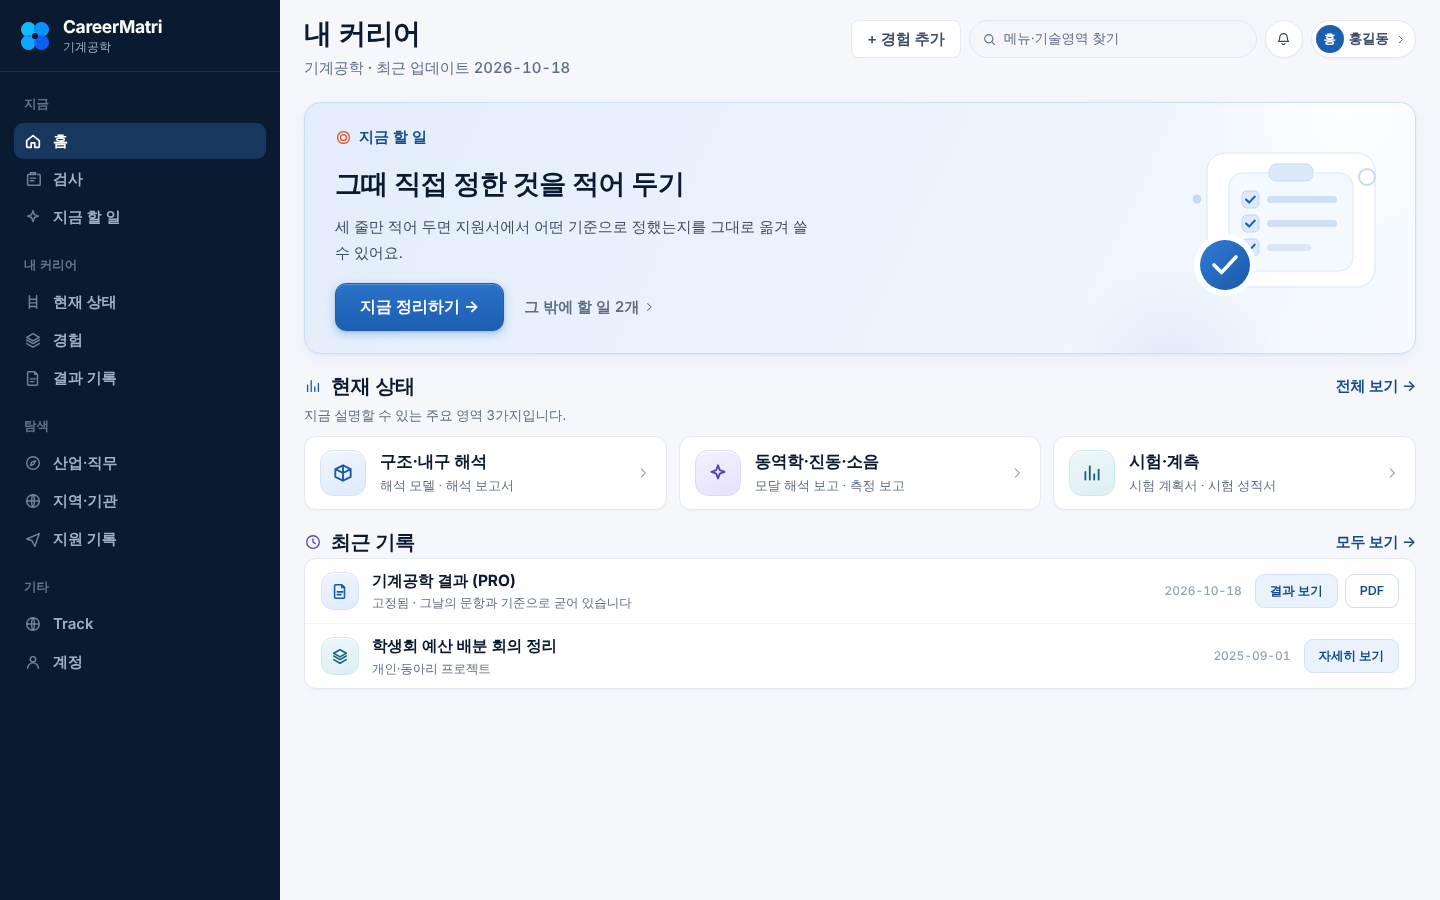
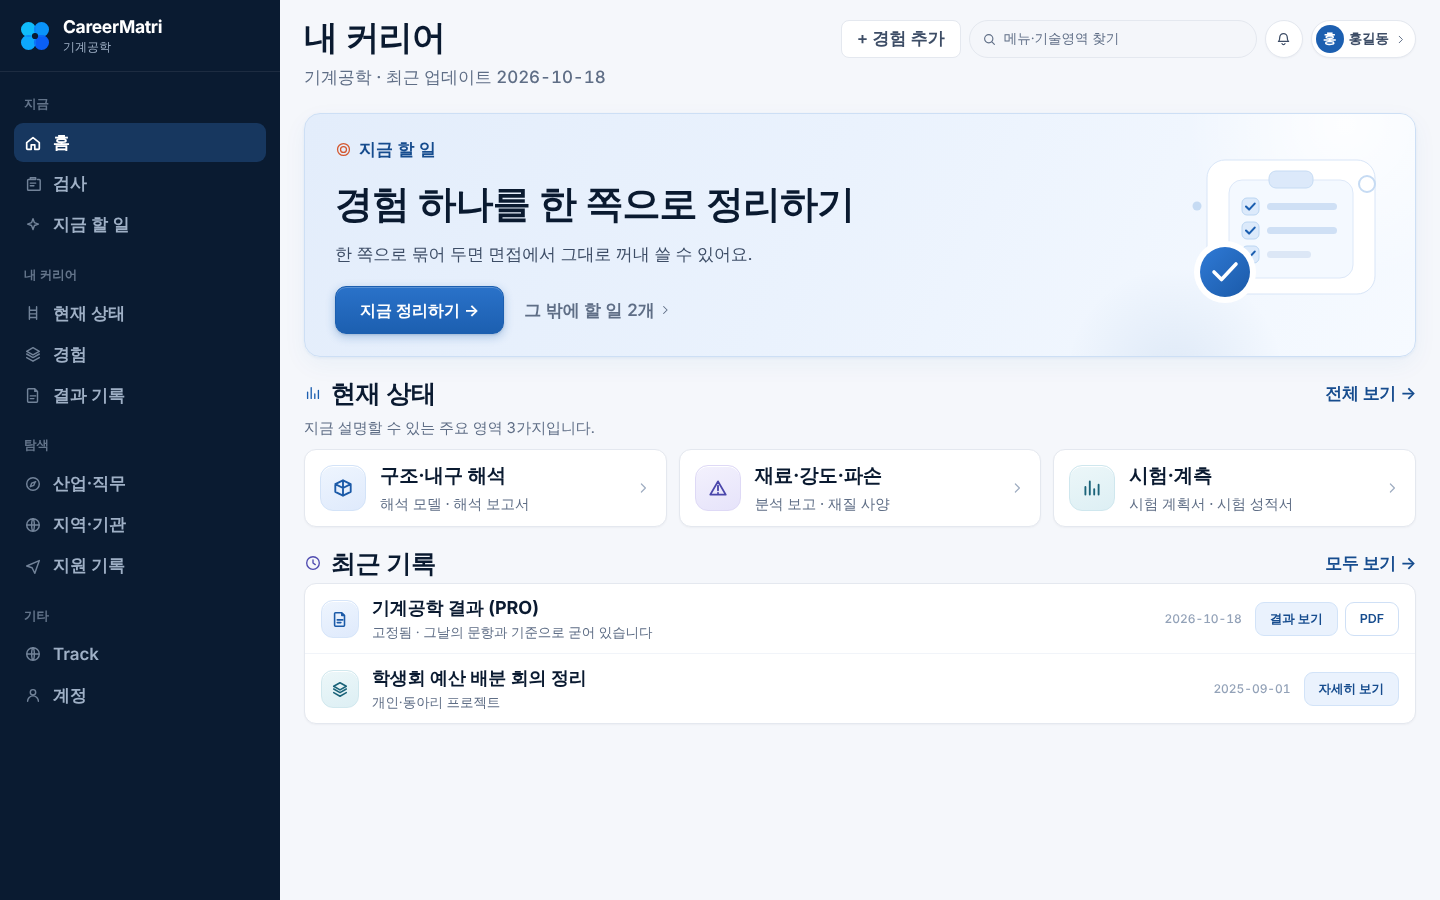
R22 ③: 본문 폭과 활자를 창 폭에 맞춘다
목표 화면과 같은 밀도로 맞추라는 지적을 받고 먼저 재었다.

--cm-max 는 1440 에서 걸리지 않는다: 쓸 수 있는 폭이 1440 - 280(띠) -
48(안쪽 여백) = 1112 라 1120 짜리 상한에 닿지 않는다. 그 값만 올려서는
한 화소도 바뀌지 않고, 걸리는 자리는 1536 위다. 1920 에서 1120 으로 묶어
두면 양쪽에 236px 짜리 빈 띠가 남으므로 1360 으로 넓혔다.

1440 에서 밀도를 바꾸는 자리는 활자였다. 1200 안팎에 맞춰 둔 값을 1440 과
1920 에서 그대로 써서 창이 넓어질수록 글이 멀어 보였다. 일곱 자리를 clamp
로 바꿔 넓은 화면에서만 올라가게 했다(쪽 제목 28 → 34 · Hero 머리 27 → 38
· 절 머리 20 → 25 · 칸 이름 16.5 → 19.4 · 기록 이름 15.5 → 18 ·
--ui-t-sub 15 → 17 · --ui-t-cap 12.5 → 13.5).

손전화는 한 글자도 바뀌지 않는다: clamp 의 아래 값이 전의 값 그대로다.
위를 막아 두는 까닭은 1920 에서 본문이 22px 가 되면 한 줄에 들어가는 글자가
줄어 훑는 자리가 읽는 자리가 되기 때문이다. 새 단을 만들지 않았고 검사와
결과지는 surface.css 의 값을 그대로 읽는다.

판본은 작업공간 화면만 올렸다: CAREERMATRI_WORKSPACE_UI_V38. 글자가 한
줄도 바뀌지 않아 문장 판본은 그대로다.

회귀: v3:visual(폭 11 · 확대 4 · 자리 20) · v3:product-loop(65) ·
v3:gate(25) · v3:copy · copy:audit(47 기준선 그대로) · 동결 다섯 OK.

Claude-Session: https://claude.ai/code/session_01VsLgPeSsVvvXWmRdQnrgMy

diff --git a/pca-platform/src/app/me/platform.css b/pca-platform/src/app/me/platform.css
@@ -279,7 +279,7 @@ a.cm-nav:focus-visible { outline: 2px solid #fff; outline-offset: 2px; }
   margin: 0 0 6px;
 }
 .cm-h1 {
-  font-size: clamp(24px, 2.1vw, 28px); line-height: 1.26; font-weight: var(--ui-w-bd);
+  font-size: clamp(24px, 2.36vw, 34px); line-height: 1.26; font-weight: var(--ui-w-bd);
   color: var(--sf-ink); margin: 0; text-wrap: balance; letter-spacing: -.022em;
 }
 /* 제목 아래 한 줄(규격 §4). `기계공학 · 최근 업데이트 YYYY.MM.DD` */
@@ -301,7 +301,8 @@ a.cm-nav:focus-visible { outline: 2px solid #fff; outline-offset: 2px; }
  */
 .cm-sh {
   display: flex; align-items: center; gap: 9px;
-  margin: 16px 0 0; font-size: 20px; font-weight: var(--ui-w-bd); color: var(--sf-ink);
+  margin: 16px 0 0; font-size: clamp(20px, 1.74vw, 25px);
+  font-weight: var(--ui-w-bd); color: var(--sf-ink);
   letter-spacing: -.015em;
 }
 /* 절 머리의 표시. **셋이 같은 파랑이면 절이 한 묶음으로 읽힌다**
@@ -315,7 +316,9 @@ a.cm-nav:focus-visible { outline: 2px solid #fff; outline-offset: 2px; }
   color: var(--sf-accent-ink); text-decoration: none; white-space: nowrap;
 }
 .cm-sh > a:hover { text-decoration: underline; }
-.cm-shsub { margin: 3px 0 9px; font-size: 13.5px; color: var(--sf-ink-3); }
+.cm-shsub {
+  margin: 3px 0 9px; font-size: clamp(13.5px, 1.04vw, 15px); color: var(--sf-ink-3);
+}
 
 /* ── 지금 할 일 Hero ──────────────────────────────────────────────
  *
@@ -360,7 +363,7 @@ a.cm-nav:focus-visible { outline: 2px solid #fff; outline-offset: 2px; }
    가리키는 표시라, 파랑 일색의 면에서 눈이 거기부터 닿는다 */
 .cm-hero-tag > svg { color: #d4572e; }
 .cm-hero-h {
-  margin: 12px 0 0; font-size: clamp(23px, 2vw, 27px); line-height: 1.4;
+  margin: 12px 0 0; font-size: clamp(23px, 2.64vw, 38px); line-height: 1.34;
   font-weight: var(--ui-w-bd); color: var(--sf-ink); letter-spacing: -.024em;
   max-width: 22ch; text-wrap: balance;
 }
@@ -459,11 +462,13 @@ a.cm-tile:nth-child(3n+3) .cm-tile-ico {
 }
 .cm-tile-txt { display: block; min-width: 0; flex: 1 1 auto; }
 .cm-tile-txt b {
-  display: block; font-size: 16.5px; font-weight: var(--ui-w-bd); color: var(--sf-ink);
+  display: block; font-size: clamp(16.5px, 1.35vw, 19.5px);
+  font-weight: var(--ui-w-bd); color: var(--sf-ink);
   letter-spacing: -.015em; line-height: 1.3;
 }
 .cm-tile-txt small {
-  display: block; margin-top: 5px; font-size: 13px; color: var(--sf-not);
+  display: block; margin-top: 5px; font-size: clamp(13px, 1.01vw, 14.5px);
+  color: var(--sf-not);
   line-height: 1.35;
   overflow: hidden; text-overflow: ellipsis; white-space: nowrap;
 }
@@ -520,7 +525,8 @@ a.cm-feed-row:hover, .cm-feed > li:hover { background: #fafcfe; }
 }
 .cm-feed-txt { flex: 1 1 auto; min-width: 0; margin: 0; font-size: var(--ui-t-sub); color: var(--sf-ink-2); }
 .cm-feed-txt b {
-  display: block; color: var(--sf-ink); font-weight: var(--ui-w-bd); font-size: 15.5px;
+  display: block; color: var(--sf-ink); font-weight: var(--ui-w-bd);
+  font-size: clamp(15.5px, 1.25vw, 18px);
   line-height: 1.4; letter-spacing: -.01em;
 }
 .cm-feed-txt small { display: block; margin-top: 3px; font-size: var(--ui-t-cap); color: var(--sf-ink-3); line-height: 1.4; }

diff --git a/pca-platform/src/lib/me-v3/workspace-version.ts b/pca-platform/src/lib/me-v3/workspace-version.ts
@@ -132,7 +132,32 @@
  *
  * **글자는 한 줄도 바뀌지 않았으므로 문장 판본은 올리지 않는다.**
  */
-export const WORKSPACE_UI_VERSION = "CAREERMATRI_WORKSPACE_UI_V37";
+/*
+ * `V38` 로 올린 까닭. **창이 넓어지면 글도 같이 커진다**(R22 ③).
+ *
+ * 목표 화면과 같은 밀도로 맞춰 달라는 지적을 받고 **먼저 재었다.**
+ * 본문 폭부터 보니 `--cm-max` 가 **1440 에서는 걸리지 않는다**: 쓸 수
+ * 있는 폭이 `1440 - 280(띠) - 48(안쪽 여백) = 1112` 이라 1120 짜리
+ * 상한에 닿지 않는다. 그러니 그 값만 올려서는 1440 에서 한 화소도
+ * 바뀌지 않는다. 걸리는 자리는 1536 위이고, 거기서 1120 으로 묶어 두면
+ * 1920 에서 양쪽에 236px 짜리 빈 띠가 남는다. 그래서 1360 으로 넓혔다.
+ *
+ * **1440 에서 밀도를 바꾸는 자리는 활자다.** 1200 안팎에 맞춰 둔 값을
+ * 1440 과 1920 에서 그대로 쓰고 있어서 창이 넓어질수록 글이 멀어
+ * 보였다. 쪽 제목 · 절 머리 · Hero 머리 · 칸 이름 · 기록 이름과
+ * `--ui-t-sub` · `--ui-t-cap` 을 `clamp` 로 바꿔 **넓은 화면에서만**
+ * 올라가게 했다. 손전화는 아래 값 그대로라 한 글자도 바뀌지 않는다.
+ *
+ * **위를 막아 둔다.** 막지 않으면 1920 에서 본문이 22px 가 되어 한 줄에
+ * 들어가는 글자가 줄고, 그러면 훑는 자리가 읽는 자리가 된다.
+ *
+ * **새 단을 만들지 않았다.** 굵기 넷(`--ui-w-*`)과 활자 단 이름은
+ * 그대로고, 바뀐 것은 작업공간 안에서 그 단이 가리키는 값이다. 검사와
+ * 결과지는 `surface.css` 의 값을 그대로 읽으므로 한 글자도 바뀌지 않는다.
+ *
+ * **글자는 한 줄도 바뀌지 않았으므로 문장 판본은 올리지 않는다.**
+ */
+export const WORKSPACE_UI_VERSION = "CAREERMATRI_WORKSPACE_UI_V38";
 
 /**
  * 작업공간에 나가는 한국어. 문장만 바뀌면 이것만 올린다.

diff --git a/pca-platform/src/app/workspace.tokens.css b/pca-platform/src/app/workspace.tokens.css
@@ -28,12 +28,26 @@
    * 작업공간 안에서만 값을 올린다. 검사와 결과지는 그 파일의 값을
    * 그대로 읽으므로 한 글자도 바뀌지 않는다.
    */
-  --ui-t-sub: 15px;
-  --ui-t-cap: 12.5px;
+  --ui-t-sub: clamp(15px, 1.18vw, 17px);
+  --ui-t-cap: clamp(12.5px, .94vw, 13.5px);
+
+  /*
+   * **창이 넓어지면 글도 같이 커진다.** 목표 화면은 제 틀 안에서 글이
+   * 꽉 차 보이는데, 우리 쪽은 1200 안팎에 맞춰 둔 값을 1440 과 1920 에서
+   * 그대로 써서 창이 넓어질수록 글이 멀어 보였다. 위의 `clamp` 셋이 그
+   * 자리다: 좁은 화면은 아래 값 그대로이고(손전화는 한 글자도 바뀌지
+   * 않는다) 넓은 화면에서만 위 값까지 올라간다.
+   *
+   * **위를 막아 둔다.** 막지 않으면 1920 에서 본문이 22px 가 되어 한
+   * 줄에 들어가는 글자가 줄고, 그러면 훑는 자리가 읽는 자리가 된다.
+   */
 
   /* ── 자리와 폭 ────────────────────────────────────────────────── */
   --cm-rail: 280px;        /* 왼쪽 띠 */
-  --cm-max: 1120px;        /* 본문 폭 */
+  /* 본문 폭. **1440 에서는 이 값이 걸리지 않는다**(쓸 수 있는 폭이
+     1112 다). 걸리는 자리는 1536 위이고, 거기서 1120 으로 묶어 두면
+     양쪽에 236px 짜리 빈 띠가 남는다 */
+  --cm-max: 1360px;
   --cm-head-h: 64px;       /* 쪽 머리(제목 + 메타) 한 덩이 */
   --cm-topbar-h: 52px;     /* 손전화 머리띠 */
   --cm-tab: 56px;          /* 손전화 아래 띠 */

diff --git a/pca-platform/CLAUDE.md b/pca-platform/CLAUDE.md
@@ -11641,3 +11641,36 @@ UI_BASE=http://127.0.0.1:3100 V3_PREVIEW_OPEN='*' \
 
 판본은 작업공간 화면만 올랐다: `CAREERMATRI_WORKSPACE_UI_V37`.
 **글자가 한 줄도 바뀌지 않아 문장 판본은 올리지 않았다.**
+
+**본문 폭은 1440 에서 걸리지 않았다. 밀도를 바꾼 것은 활자다.** (2026-10-18)
+
+목표 화면과 같은 밀도로 맞춰 달라는 지적을 받고 눈으로 고치지 않고 먼저
+재었다. 측정은 `ME_V3_MEASUREMENT_FREEZE_1` 에 그대로 머물고 검사 화면과
+결과지 동결이 **기록을 다시 적지 않은 채로** 통과한다.
+
+**`--cm-max` 는 1440 에서 아무 일도 하지 않고 있었다.** 쓸 수 있는 폭이
+`1440 - 280(왼쪽 띠) - 48(안쪽 여백) = 1112` 이라 1120 짜리 상한에 닿지
+않는다. 그러니 그 값만 올려서는 **한 화소도 바뀌지 않는다.** 걸리는 자리는
+1536 위이고 1920 에서 1120 으로 묶어 두면 양쪽에 236px 짜리 빈 띠가 남는다.
+그래서 1360 으로 넓혔고, 그 효과는 넓은 화면에서만 선다.
+
+**1440 에서 밀도를 바꾸는 자리는 활자였다.** 1200 안팎에 맞춰 둔 값을
+1440 과 1920 에서 그대로 써서 창이 넓어질수록 글이 멀어 보였다. 일곱 자리를
+`clamp` 로 바꿔 넓은 화면에서만 올라가게 했다(쪽 제목 28 → 34 · Hero 머리
+27 → 38 · 절 머리 20 → 25 · 칸 이름 16.5 → 19.4 · 기록 이름 15.5 → 18 ·
+`--ui-t-sub` 15 → 17 · `--ui-t-cap` 12.5 → 13.5).
+
+**손전화는 한 글자도 바뀌지 않는다**: `clamp` 의 아래 값이 전의 값 그대로라
+390 에서 잰 값과 그림이 같다. **위를 막아 둔다**: 막지 않으면 1920 에서
+본문이 22px 가 되어 한 줄에 들어가는 글자가 줄고, 그러면 훑는 자리가 읽는
+자리가 된다. **새 단을 만들지 않았다**: 굵기 넷과 활자 단 이름은 그대로고
+검사와 결과지는 `surface.css` 의 값을 그대로 읽는다.
+
+**목표 화면과 끝까지 같게 맞출 수는 없다.** 그 그림 안의 데스크톱 판은 폭
+573px 짜리라, 글자 높이를 판 폭으로 나눈 값이 자리마다 다른 배율을
+요구한다(절 머리 1.50배 · 영역 이름 1.23배 · Hero 1.96배). 한 화면 안에서
+배율이 그렇게 갈리면 그것은 고르게 그린 화면이 아니라 **그림**이다. 세 값의
+가운데쯤에서 멈췄고 그 사실을 보고에 적어 둔다.
+
+판본은 작업공간 화면만 올랐다: `CAREERMATRI_WORKSPACE_UI_V38`.
+**글자가 한 줄도 바뀌지 않아 문장 판본은 올리지 않았다.**

diff --git a/pca-platform/docs/metri/R22_WORKSPACE_REFERENCE.md b/pca-platform/docs/metri/R22_WORKSPACE_REFERENCE.md
@@ -169,6 +169,43 @@ v3:visual          폭 열하나 · 확대 넷 · 자리 20 · 걸림 0
 
 ---
 
+## F-3. 본문 폭과 밀도 (R22 ③)
+
+**`--cm-max` 는 1440 에서 걸리지 않는다.** 폭부터 재었다. 쓸 수 있는
+폭이 `1440 - 280(띠) - 48(안쪽 여백) = 1112` 이고 상한이 1120 이었으니,
+그 값만 올려서는 1440 에서 한 화소도 바뀌지 않는다. 걸리는 자리는 1536
+위이고 1920 에서 1120 으로 묶어 두면 양쪽에 236px 짜리 빈 띠가 남는다.
+그래서 1360 으로 넓혔다. **1440 에서 바뀌는 것은 없고 넓은 화면에서만
+본문이 창을 따라 넓어진다.**
+
+**1440 에서 밀도를 바꾸는 자리는 활자다.** 1200 안팎에 맞춰 둔 값을
+1440 과 1920 에서 그대로 써서, 창이 넓어질수록 글이 멀어 보였다. 일곱
+자리를 `clamp` 로 바꿨다.
+
+| 자리 | 전 | 1440 | 위 한도 |
+|---|---|---|---|
+| 쪽 제목 `.cm-h1` | 28 | 34.0 | 34 |
+| Hero 머리 `.cm-hero-h` | 27 | 38.0 | 38 |
+| 절 머리 `.cm-sh` | 20 | 25.0 | 25 |
+| 절 거드는 줄 `.cm-shsub` | 13.5 | 15.0 | 15 |
+| 칸 이름 `.cm-tile-txt b` | 16.5 | 19.4 | 19.5 |
+| 기록 이름 `.cm-feed-txt b` | 15.5 | 18.0 | 18 |
+| `--ui-t-sub` · `--ui-t-cap` | 15 · 12.5 | 17.0 · 13.5 | 17 · 13.5 |
+
+**손전화는 한 글자도 바뀌지 않는다**: `clamp` 의 아래 값이 전의 값
+그대로다. 390 에서 잰 값이 전과 같고 그림도 같다.
+
+**위를 막아 둔다.** 막지 않으면 1920 에서 본문이 22px 가 되어 한 줄에
+들어가는 글자가 줄고, 그러면 훑는 자리가 읽는 자리가 된다.
+
+**목표 화면과 끝까지 같게 만들 수는 없다.** 목표 화면 안의 데스크톱 판은
+폭 573px 짜리 그림이고, 그 안의 글자 높이를 판 폭으로 나눈 값이 자리마다
+다른 배율을 요구한다(절 머리 1.50배 · 영역 이름 1.23배 · Hero 1.96배).
+한 화면 안에서 배율이 그렇게 갈리면 그것은 **고르게 그린 화면이 아니라
+그림**이다. 그래서 세 자리의 가운데쯤에서 멈췄고, 그 사실을 적어 둔다.
+
+---
+
 ## I. 고치지 않고 적어 두는 것
 
 - `v3:workspace:shots` 가 83곳 걸린다. **이 회차가 만든 것이 아니다**:
